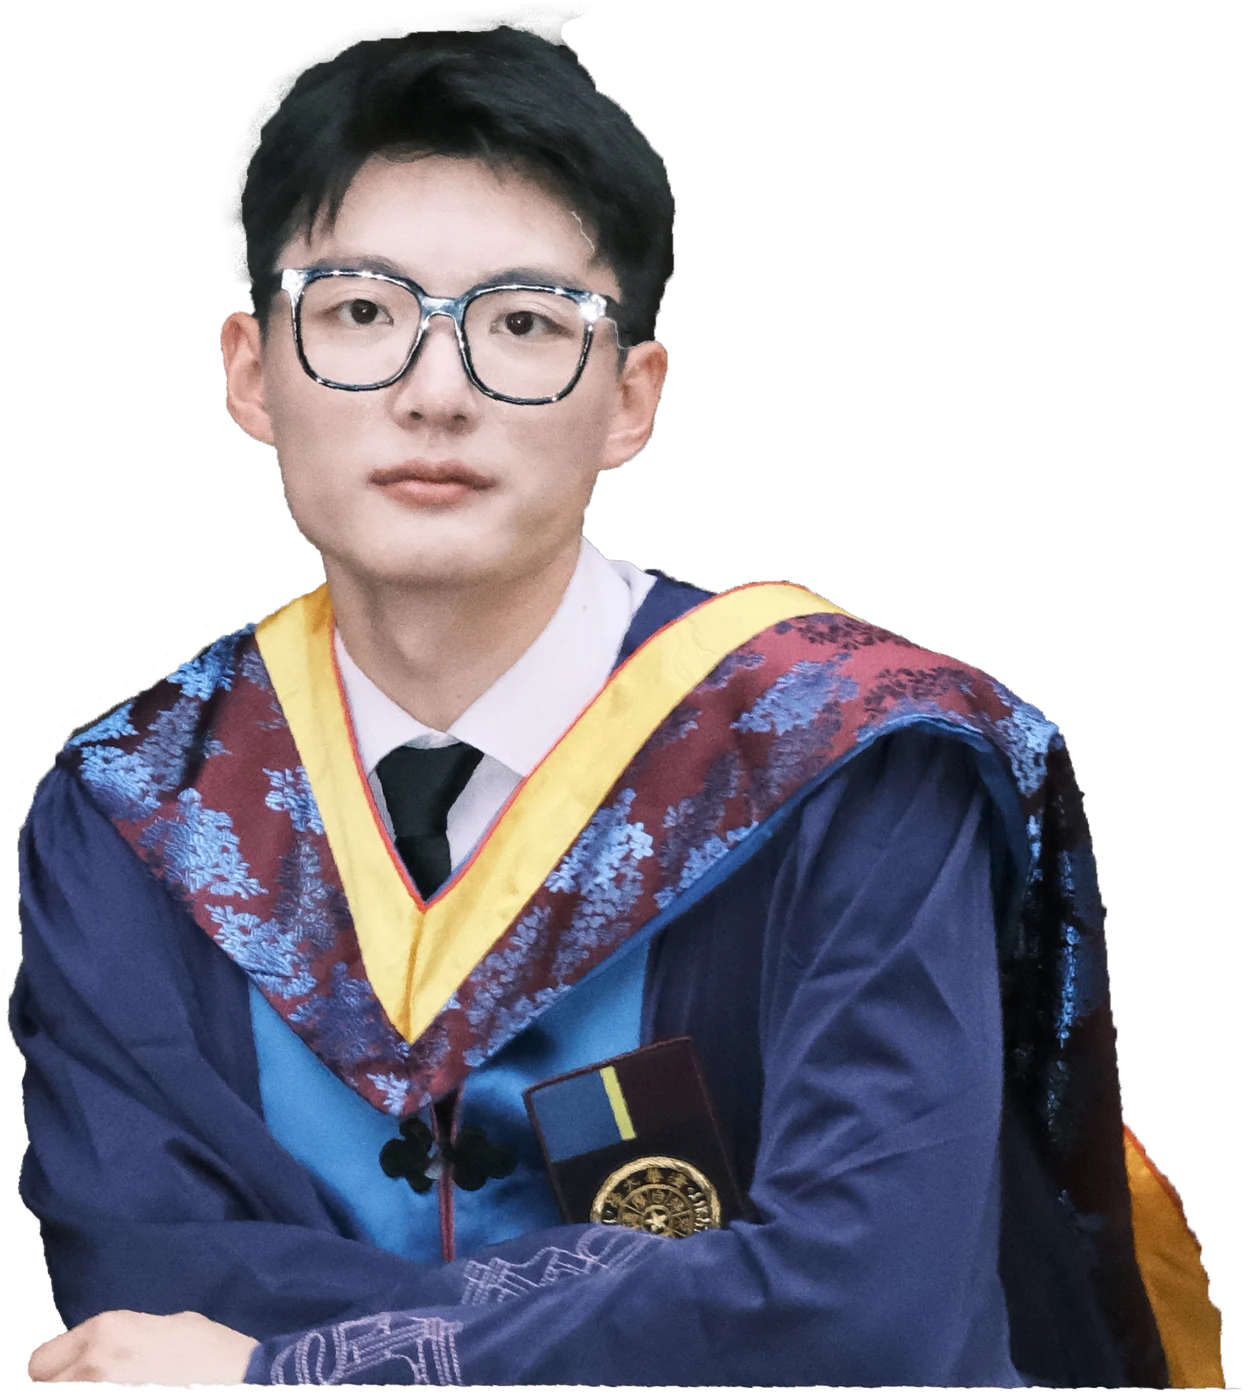
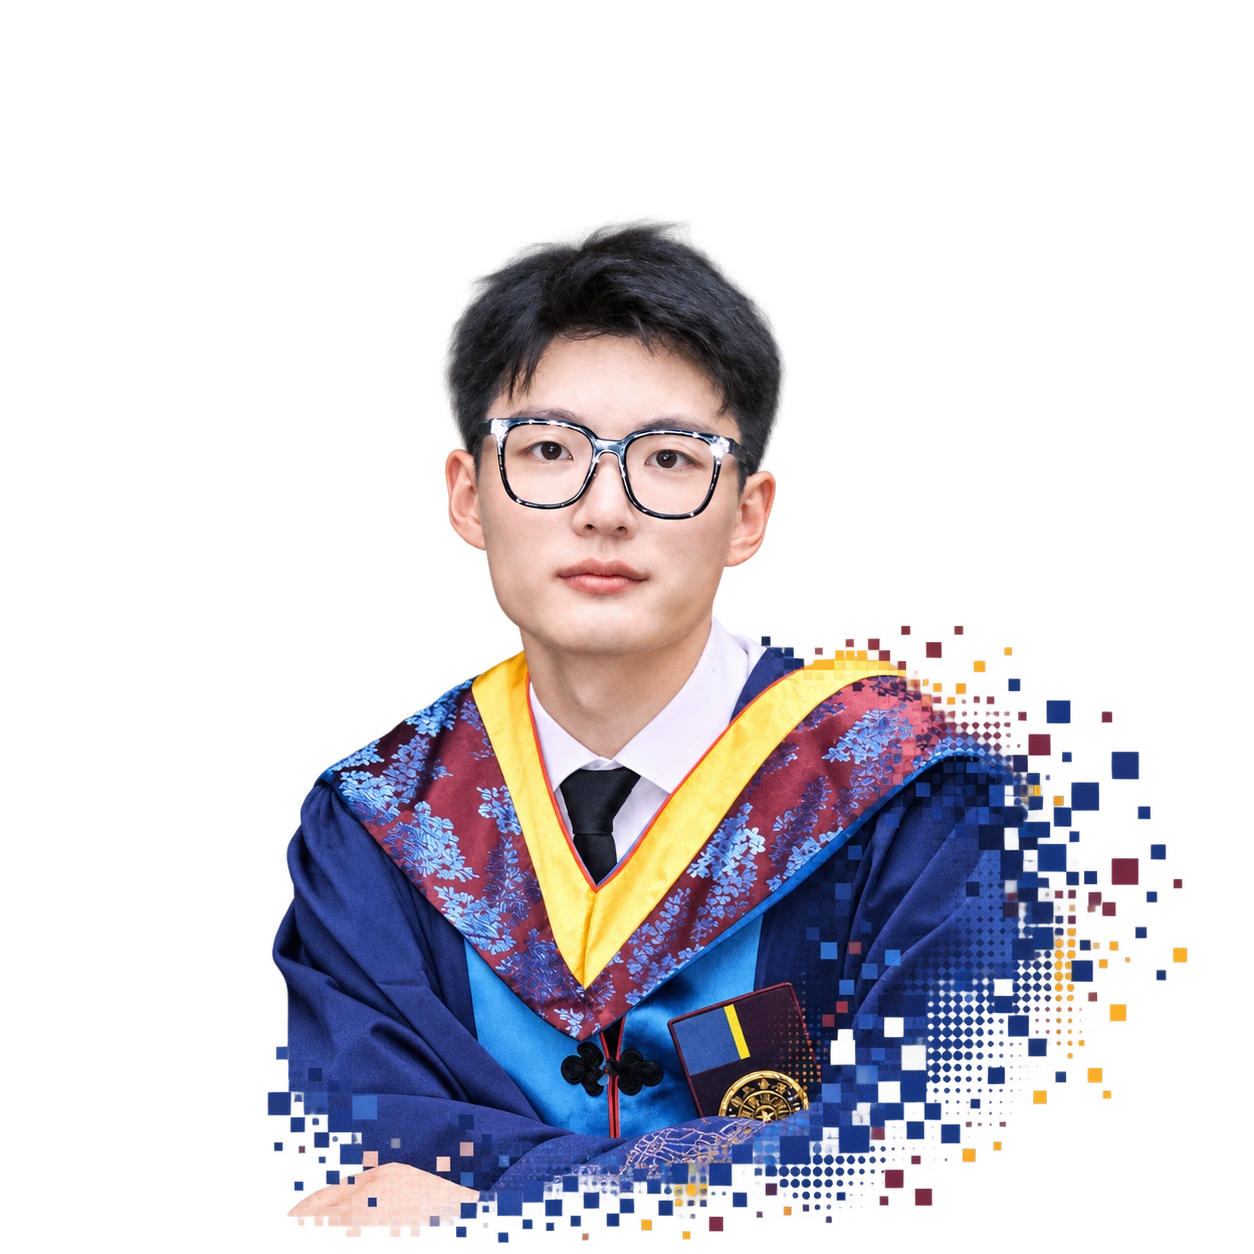
Update homepage portrait

diff --git a/index.html b/index.html
@@ -12,7 +12,7 @@
   <meta property="og:image" content="https://wch1007.github.io/chenghaowang-web/assets/images/chenghao-portrait.webp">
   <link rel="canonical" href="https://wch1007.github.io/chenghaowang-web/">
   <link rel="icon" href="assets/favicon.svg" type="image/svg+xml">
-  <link rel="preload" href="assets/images/caelen-graduate.webp" as="image" type="image/webp">
+  <link rel="preload" href="assets/images/caelen-graduate.webp?v=2" as="image" type="image/webp">
   <link rel="stylesheet" href="assets/styles.css?v=5">
   <link rel="stylesheet" href="assets/chapters.css?v=7">
   <title>王城昊 Caelen · Chenghao Wang — AI Product Builder</title>
@@ -38,7 +38,7 @@
         <p class="hero-lead reveal" data-zh="我是王城昊，Caelen。跨越 AI Agent、智能硬件、机器人、设计与商业，把模糊需求推进为可验证、可交付、可增长的系统。" data-en="I'm Caelen (Chenghao) Wang. I work across AI agents, intelligent hardware, robotics, design and business—turning ambiguous needs into systems that can be validated, shipped and scaled.">我是王城昊，Caelen。跨越 AI Agent、智能硬件、机器人、设计与商业，把模糊需求推进为可验证、可交付、可增长的系统。</p>
         <div class="hero-actions reveal"><a class="pill-button magnetic" href="#journey"><span data-zh="从履历开始" data-en="Start with my journey">从履历开始</span><i>↓</i></a><a class="plain-link" href="#projects"><span data-zh="直接看项目" data-en="Explore projects">直接看项目</span><i>↗</i></a><a class="plain-link resume-link" href="assets/files/Chenghao_s_CV__2610__Chinese.pdf" download><span data-zh="获取个人简历" data-en="Get my résumé">获取个人简历</span><i>↓</i></a></div>
       </div>
-      <div class="hero-portrait reveal" data-parallax-root><div class="portrait-backdrop" aria-hidden="true"><span>AI</span><span>01</span></div><div class="portrait-photo"><img src="assets/images/caelen-graduate.webp" alt="Caelen 王城昊的毕业肖像" width="1249" height="1400" fetchpriority="high"></div><div class="hero-signature">Caelen<span>STILL CURIOUS. ALWAYS BUILDING.</span></div><div class="floating-note note-a" data-depth="14">PRODUCT<br>× AI</div><div class="floating-note note-b" data-depth="9">BEIJING<br>39.90°N</div><div class="floating-note note-c" data-depth="18">BUILD<br>WHAT<br>MATTERS</div></div>
+      <div class="hero-portrait reveal" data-parallax-root><div class="portrait-backdrop" aria-hidden="true"><span>AI</span><span>01</span></div><div class="portrait-photo"><img src="assets/images/caelen-graduate.webp?v=2" alt="Caelen 王城昊的毕业肖像" width="1254" height="1254" fetchpriority="high"></div><div class="hero-signature">Caelen<span>STILL CURIOUS. ALWAYS BUILDING.</span></div><div class="floating-note note-a" data-depth="14">PRODUCT<br>× AI</div><div class="floating-note note-b" data-depth="9">BEIJING<br>39.90°N</div><div class="floating-note note-c" data-depth="18">BUILD<br>WHAT<br>MATTERS</div></div>
       <div class="hero-marquee"><div class="marquee-track"><div class="marquee-group"><span>AI PRODUCT</span><i>✳</i><span>AGENT SYSTEMS</span><i>✳</i><span>ROBOTICS</span><i>✳</i><span>0 → 1 VENTURES</span><i>✳</i><span>HUMAN × MACHINE</span><i>✳</i></div><div class="marquee-group" aria-hidden="true"><span>AI PRODUCT</span><i>✳</i><span>AGENT SYSTEMS</span><i>✳</i><span>ROBOTICS</span><i>✳</i><span>0 → 1 VENTURES</span><i>✳</i><span>HUMAN × MACHINE</span><i>✳</i></div></div></div>
     </section>
 
